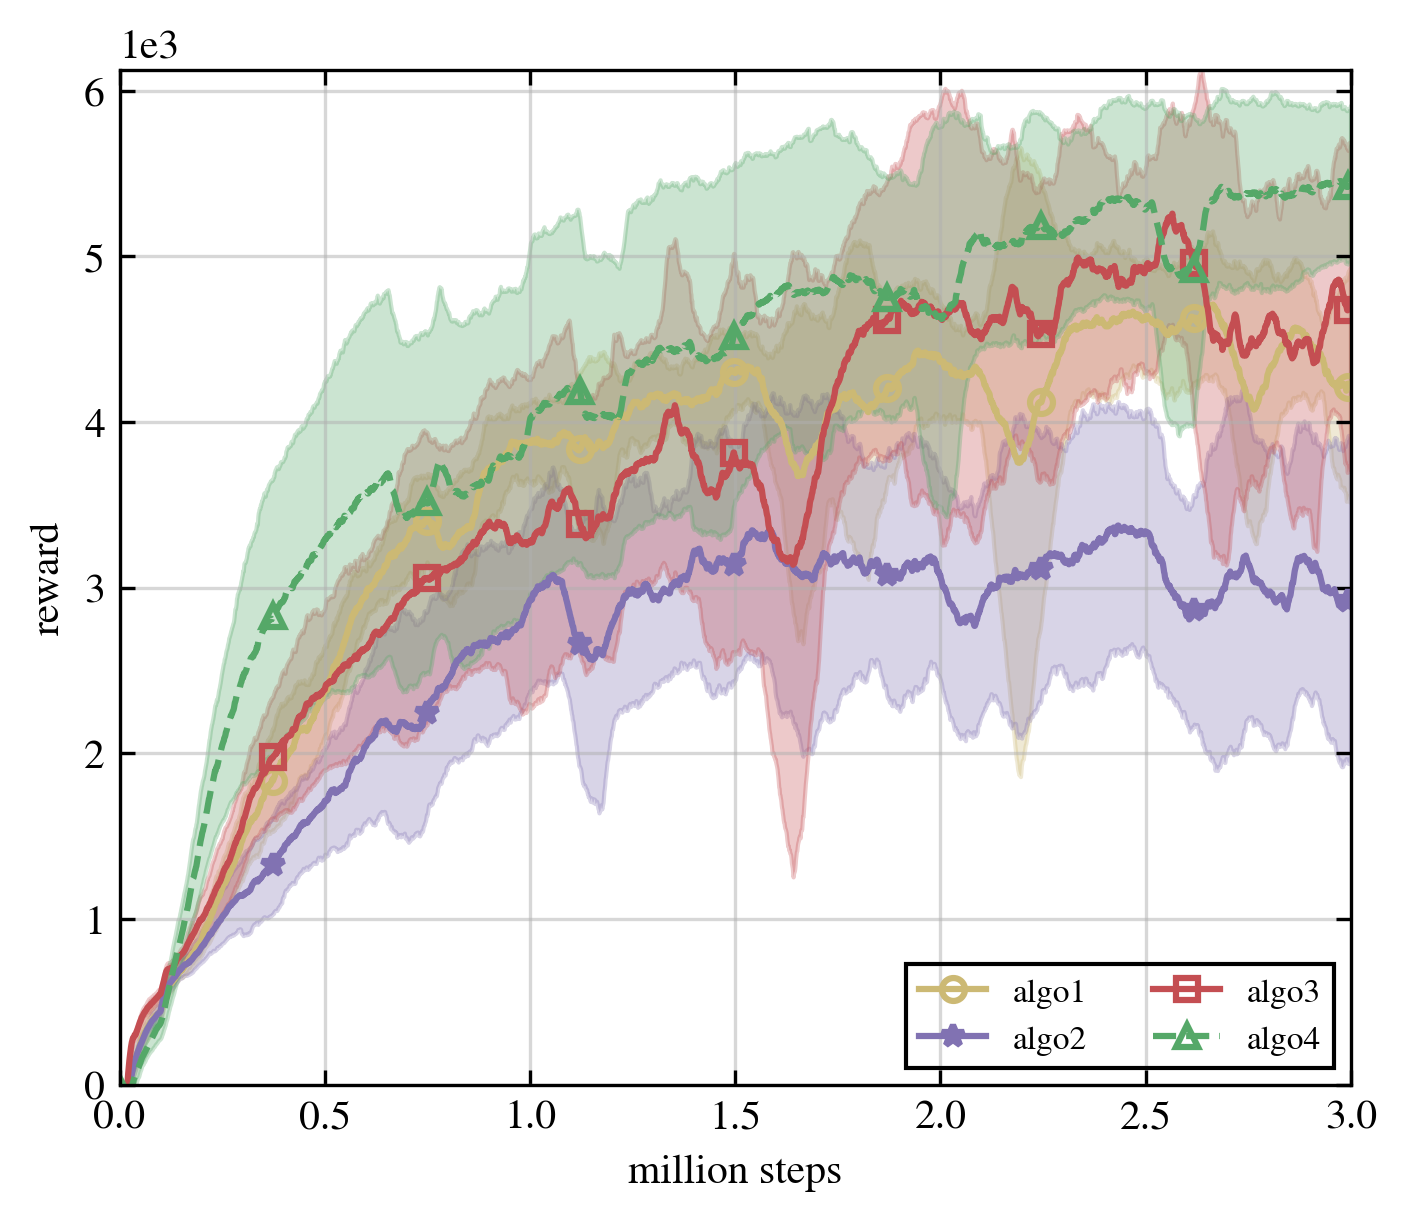
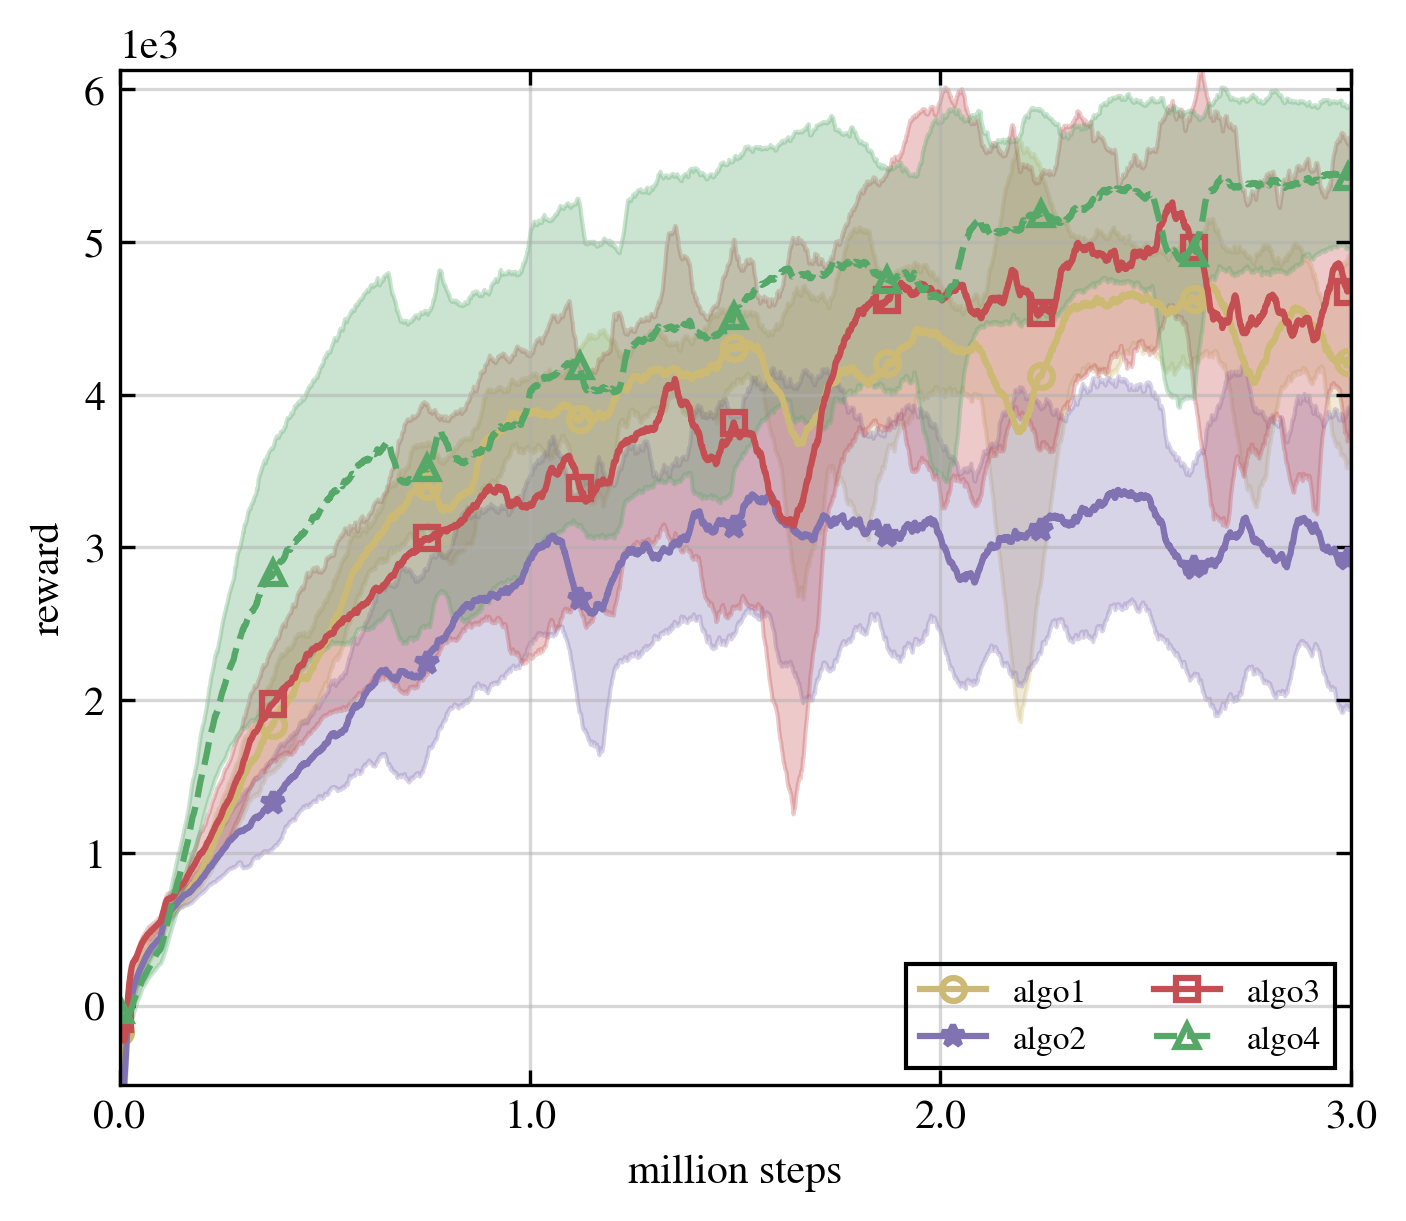
update

diff --git a/plot_line_chart.py b/plot_line_chart.py
@@ -21,49 +21,51 @@ LINES = ['-', '--', ':']
 metrics = ["metric1"]
 
 # Plot line chart
-for domain in domains:
-    plt.clf()
-    plt.figure(figsize=(4.8, 4.2)) # width and height
-    max_x_len = 0
-    max_y_value = -1e6
-    min_y_value = 1e6
-    for algo in domain_algo_plot[domain]:
-        data_path = algo_domain_path[algo + '-' + domain] # can  get multiple metrics result
-        res_dict = get_results(data_path, metrics=metrics)
-        single_metric_res = res_dict[metrics[0]]
-        results = smooth_results(single_metric_res)
-        mean = np.mean(results, axis=1)
-        std = np.std(results, axis=1)
+# for domain in domains:
+domain = domains[0]
+plt.clf()
+plt.figure(figsize=(4.8, 4.2)) # width and height
+max_x_len = -1e6
+max_y_value = -1e6
+min_y_value = 1e6
+for algo in domain_algo_plot[domain]:
+    data_path = algo_domain_path[algo + '-' + domain] # can  get multiple metrics result
+    res_dict = get_results(data_path, metrics=metrics)
+    single_metric_res = res_dict[metrics[0]]
+    results = smooth_results(single_metric_res)
+    mean = np.mean(results, axis=1)
+    std = np.std(results, axis=1)
 
-        x_vals = np.arange(len(mean))  # x axis item interval
+    x_vals = np.arange(len(mean))  # x axis item interval
 
-        color = COLORS[algos.index(algo)]
-        marker = MARKERS[algos.index(algo) % 4 ]
-        line = LINES[algos.index(algo)//3]
-        marker_num = 8
-        makerevery = x_vals[-1] // marker_num
-        plt.plot(x_vals, mean, label=algo, marker=marker, markevery=makerevery, markerfacecolor='none', markersize=5.5, markeredgewidth=1.5, color=color, linestyle=line)
-        plt.fill_between(x_vals, mean - std, mean + std, color=color, alpha=0.3)
+    color = COLORS[algos.index(algo)]
+    marker = MARKERS[algos.index(algo) % 4 ]
+    line = LINES[algos.index(algo)//3]
+    marker_num = 8
+    makerevery = x_vals[-1] // marker_num
+    plt.plot(x_vals, mean, label=algo, marker=marker, markevery=makerevery, markerfacecolor='none', markersize=5.5, markeredgewidth=1.5, color=color, linestyle=line)
+    plt.fill_between(x_vals, mean - std, mean + std, color=color, alpha=0.3)
 
-        max_x_len = max(max_x_len, x_vals[-1])
-        max_y_value = max(max_y_value, np.max(mean+std))
-        min_y_value = max(min_y_value, np.min(mean + std))
+    max_x_len = max(max_x_len, x_vals[-1])
+    max_y_value = max(max_y_value, np.max(mean+std))
+    min_y_value = min(min_y_value, np.min(mean + std))
 
-    # Plot misc
-    plt.ylabel('reward')
-    plt.xlabel('million steps')
+# Plot misc
+plt.ylabel('reward')
+plt.xlabel('million steps')
 
-    x_tick_interval = max_x_len//3  # just want five ticks, let it be max_len//5
-    x_ticks = np.arange(0, max_x_len+1, x_tick_interval)
-    plt.xticks(x_ticks, np.around(x_ticks/x_tick_interval, 1))
-    plt.xlim(0, x_ticks[-1]+1)
-    plt.ylim(np.ceil(min_y_value), np.ceil(max_y_value))
-    plt.ticklabel_format(style='sci', scilimits=(0, 0), axis='y')
+x_tick_interval = (max_x_len+1)//3  # just want five ticks, let it be max_len//5
+x_ticks = np.arange(0, max_x_len+2, x_tick_interval)
+plt.xticks(x_ticks, np.around(x_ticks/x_tick_interval, 1))
+plt.xlim(0, x_ticks[-1]+1)
+plt.ylim(np.ceil(min_y_value), np.ceil(max_y_value))
+plt.ticklabel_format(style='sci', scilimits=(0, 0), axis='y')
 
-    plt.grid(True, linestyle='-', alpha=0.5)
-    lgd = plt.legend(loc='lower right', bbox_to_anchor=(1, 0), ncol=2, fancybox=False, framealpha=1, edgecolor='black', prop={'size': 8})
-    lgd.get_frame().set_alpha(None)
-    lgd.get_frame().set_facecolor((0, 0, 0, 0))
-    plt.tight_layout()
+plt.grid(True, linestyle='-', alpha=0.5)
+lgd = plt.legend(loc='lower right', bbox_to_anchor=(1, 0), ncol=2, fancybox=False, framealpha=1, edgecolor='black', prop={'size': 8})
+lgd.get_frame().set_alpha(None)
+lgd.get_frame().set_facecolor((0, 0, 0, 0))
+plt.tight_layout()
 
-    plt.savefig('./png/'+task+'_'+domain+'.png', bbox_inches='tight',  dpi=300)
+plt.savefig('./png/linechart.png', bbox_inches='tight', dpi=300)
+# plt.savefig('./png/'+task+'_'+domain+'.png', bbox_inches='tight',  dpi=300)
